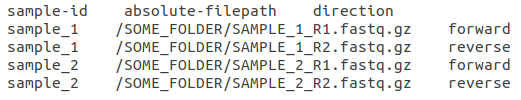
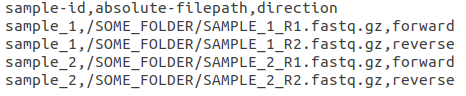
manifest file description changed

diff --git a/frontend/src/Components/Modal/ModalBodies.js b/frontend/src/Components/Modal/ModalBodies.js
@@ -90,7 +90,7 @@ export const InputFormatModalBody = React.forwardRef((props, ref) => (
 			<img src={INPUT_FORMAT_V2_MULTIPLE}/>
 		</div>
 		<div className="modal-body-additional-container">
-			<p className="modal-body-additional-text">* Delimiter can be either comma (,) or tab (\t)</p>
+			<p className="modal-body-additional-text">* Delimiter MUST be comma (,)</p>
 			<p className="modal-body-additional-text">* Column headers MUST be identical to the corresponding examples</p>
 			<p className="modal-body-additional-text">* Multiple run option is useful if you wish to denoise samples belonging to the same run_ID, 
 				and later combine the individual ASV tables into one merged table.</p>
